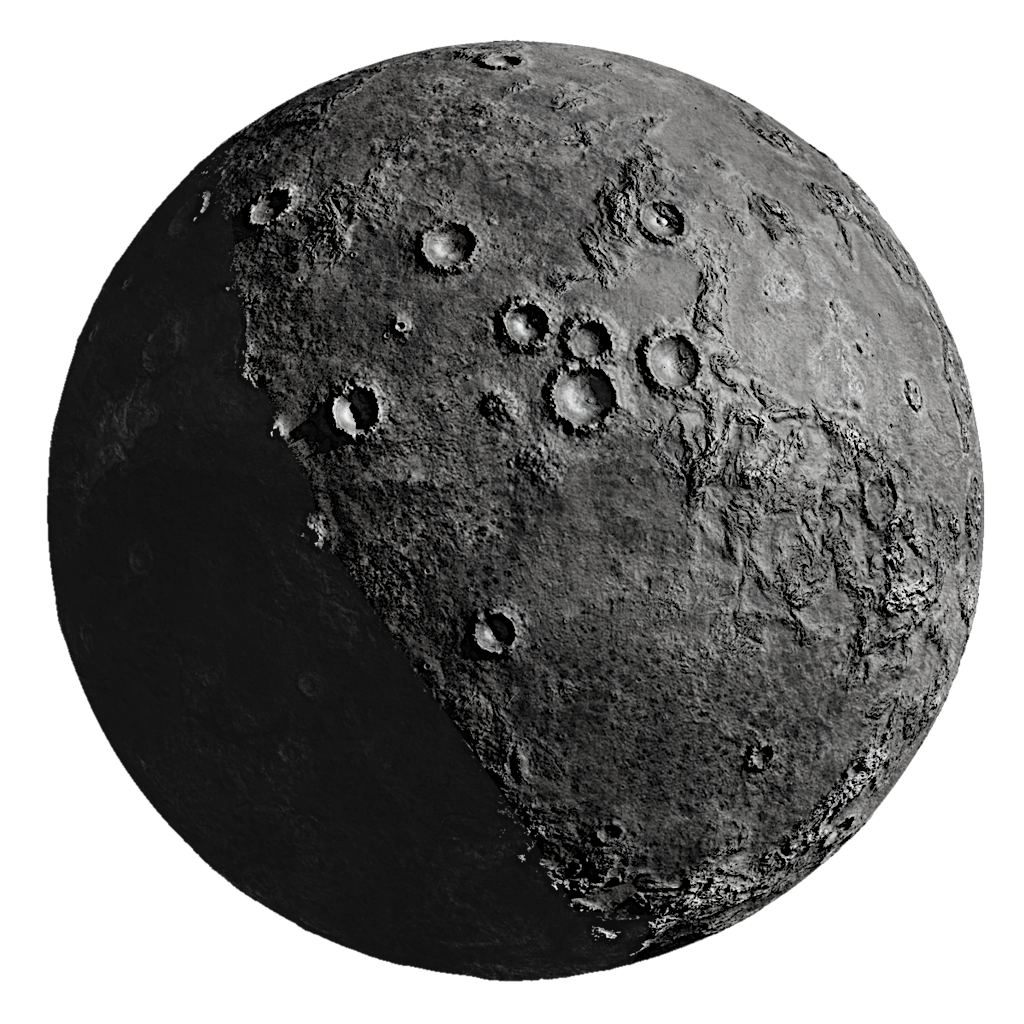
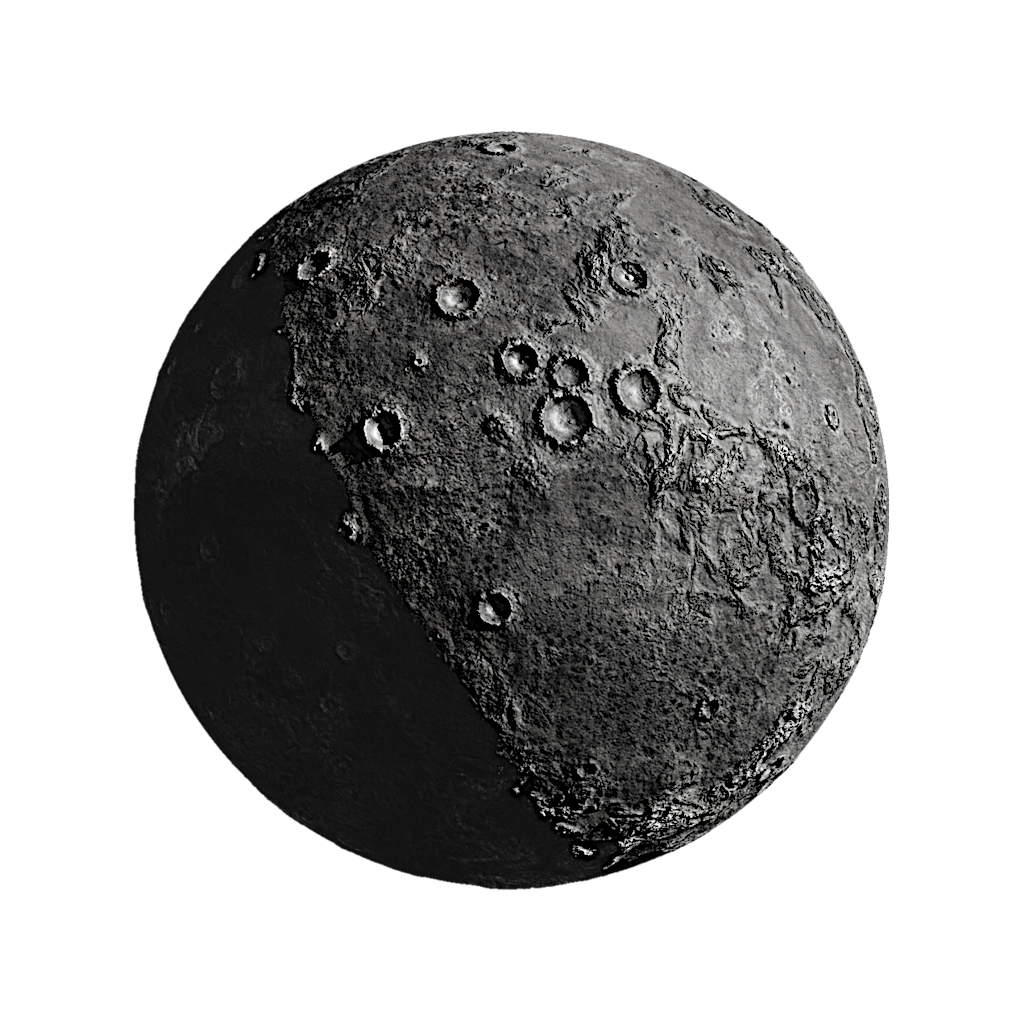
Add larger Moon unit

diff --git a/source/server/model/ships/civilians/moon.php b/source/server/model/ships/civilians/moon.php
@@ -1,18 +1,18 @@
 <?php
-class moonSmall  extends Terrain{
+class moon  extends Terrain{
     
     function __construct($id, $userid, $name,  $slot){
         parent::__construct($id, $userid, $name,  $slot);
         
-		$this->pointCost = 5;
+		$this->pointCost = 10;
 		$this->faction = "Civilians";
 		$this->factionAge = 1;        
-        $this->phpclass = "moonSmall";
-        $this->imagePath = "img/ships/moonSmall.png";
-        $this->canvasSize = 512;
-        $this->shipClass = "Moon (Small)";
+        $this->phpclass = "moon";
+        $this->imagePath = "img/ships/moon.png";
+        $this->canvasSize = 1024;
+        $this->shipClass = "Moon";
         $this->Enormous = true; 
-        $this->Huge = 1;        
+        $this->Huge = 2;        
 		$this->iniativebonus = -200; //no voluntary movement anyway
         $this->notes = "Occupies multiple hexes";
         $this->notes .= "<br>Units entering terrain's area will automatically ram";       
@@ -37,7 +37,7 @@ class moonSmall  extends Terrain{
         $this->addPrimarySystem(new OSATCnC(10, 1, 0, 0)); //Required for some checks.
         $this->addPrimarySystem(new MagGravReactorTechnical(10, 1, 0, 0)); //Required for some checks.
 
-        $this->addPrimarySystem(new Structure(8,  2000));
+        $this->addPrimarySystem(new Structure(8,  5000));
 
         $this->hitChart = array(
                 0=> array(

diff --git a/source/autoload.php b/source/autoload.php
@@ -3436,6 +3436,7 @@ spl_autoload_register(
 	    				'asteroidm' => '/server/model/ships/civilians/asteroidM.php',  
 	    				'asteroidl' => '/server/model/ships/civilians/asteroidL.php', 
 	    				'moonsmall' => '/server/model/ships/civilians/moonSmall.php',  
+	    				'moon' => '/server/model/ships/civilians/moon.php',  
 
 				//Marine Boarding Actions
 				'marines' => '/server/model/weapons/specialWeapons.php',
